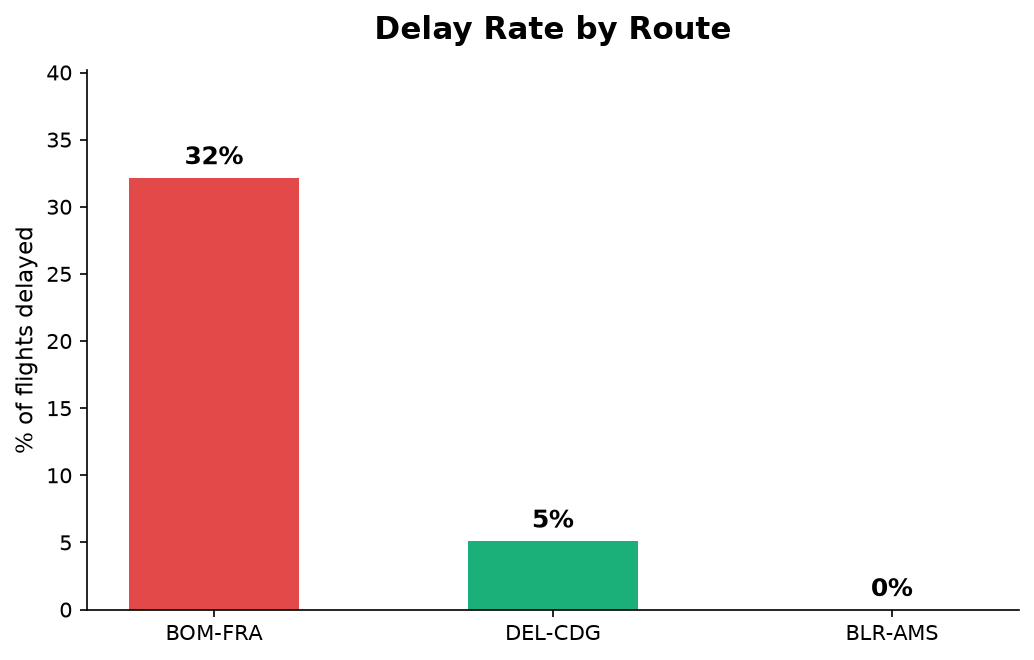
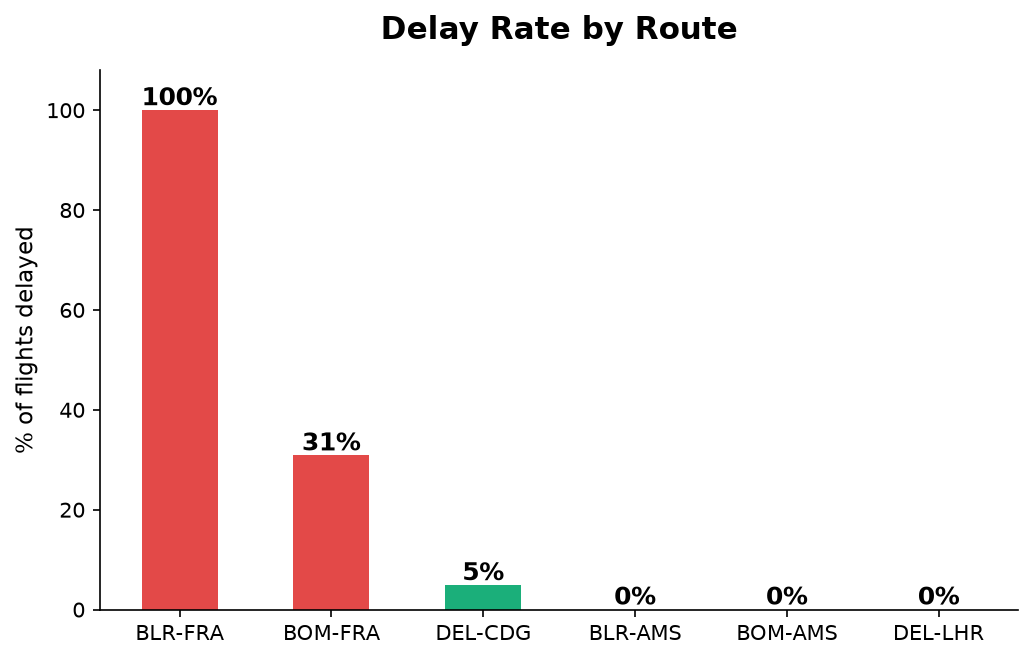
feat: transition to Phase 2 routes (DEL-LHR, BLR-FRA, BOM-AMS); docs: log Phase 2 reasoning

diff --git a/collect_data.py b/collect_data.py
@@ -9,10 +9,24 @@ load_dotenv()
 API_KEY = os.getenv('AVIATIONSTACK_KEY')
 
 # The 3 routes it will be tracking: (departure airport, arrival airport)
-ROUTES = [
+# Phase 1 (Day 1-25): tracked these 3 routes to build a first, comparably-deep
+# dataset (400+ flights each). Historical data remains in flights_log.csv untouched.
+# See KNOWLEDGE.md Section 38 for the Phase 2 transition reasoning.
+PHASE_1_ROUTES_COMPLETE = [
     ('BOM', 'FRA'),
     ('DEL', 'CDG'),
     ('BLR', 'AMS')
+]
+
+# Phase 2 (Day 26 onward): new API quota cycle, switched to these 3 routes
+# rather than running all 6 at once, to avoid halving per-route sample depth.
+# Selected from a researched top-10 list of busiest/most-searched India-Europe
+# routes, picked specifically to add a new destination country (UK, Netherlands)
+# and enable same-destination cross-city comparisons (Frankfurt via BLR vs BOM).
+ROUTES = [
+    ('DEL', 'LHR'),
+    ('BLR', 'FRA'),
+    ('BOM', 'AMS')
 ]
 
 CSV_FILE = 'data/flights_log.csv'

diff --git a/KNOWLEDGE.md b/KNOWLEDGE.md
@@ -189,6 +189,7 @@
 | Day 22 | 391 | 667 | Continued daily collection |
 | Day 23 | 414 | 697 | Continued daily collection. Added a live "predict my flight" feature to the app, backed by a model retrained inside the app itself (cached, retrains only when data changes). Fixed two theme bugs: the toggle label was showing the wrong mode name, and light mode had several invisible text elements because Streamlit's own native widget labels (dropdowns, sliders, buttons) are separate from the app's custom CSS classes and were not being overridden |
 | Day 24 | 425 | 722 | Continued daily collection. Diagnosed and fixed the actual root cause of the toggle label bug, a one-render lag where the label text was computed before capturing the toggle's new value each click. Decoupled the mode indicator text from the widget's own label to fix it properly |
+| Day 25 | 442 | 749 | Continued daily collection. Marked project version 1 complete, remaining sessions are data collection only until the API budget runs out |
 
 ## 24. First EDA finding: BOM-FRA is meaningfully less reliable than the other two routes
 
@@ -303,7 +304,16 @@
 - **Fix:** added explicit CSS overrides targeting Streamlit's own internal widget selectors (label text, slider value display, select box text, button text) so they follow the same theme colors as the rest of the app, in both modes
 - **Interview point:** a real, sometimes-overlooked lesson when styling apps built on top of a framework like Streamlit: the framework's own default component chrome does not automatically inherit a custom theme just because most of the page has been restyled. Every native component needs to be checked and, if needed, explicitly overridden.
 
-## 37. Still to come (will update as we go)
+## 37. Phase 2: switching to 3 new routes on a fresh API quota cycle
+
+- The Aviationstack free tier resets its 100-request budget monthly. With Phase 1 routes (BOM-FRA, DEL-CDG, BLR-AMS) reaching a solid final sample size (442+ flights) on the prior cycle, a fresh 100-request budget became available for a new month
+- **Considered running all 6 routes together, rejected it.** At 6 routes per day, the ~100-request budget only covers 16-17 days, meaning the new 3 routes would end up with roughly 50 flights each versus 400+ on the original 3, a nearly 9x sample size gap. This would directly contradict the depth-over-breadth reasoning already documented in Section 7, and would make any cross-comparison between old and new routes unreliable due to the sample size mismatch alone, not a real difference
+- **Decision: stop collecting Phase 1 routes, start collecting 3 new routes instead**, giving the new routes a comparable ~33-day window and comparable depth, rather than diluting everything by running 6 at once
+- **Historical Phase 1 data is not deleted or hidden.** It remains permanently in flights_log.csv, and the switch is documented directly in code comments in collect_data.py, so anyone reading the script (not just this doc) understands why the active route list changed without needing to dig through git history
+- **New routes chosen from researched top-10 India-Europe route list**, picked specifically to add value beyond just "more data": Delhi-London (DEL-LHR, the single busiest India-Europe corridor overall, adds a new destination country), Mumbai-Amsterdam (BOM-AMS, adds the Netherlands, distinct from the existing Frankfurt/Paris coverage), and Bengaluru-Frankfurt (BLR-FRA, same destination as the existing BOM-FRA route but a different Indian origin city, enabling a same-destination cross-city comparison)
+- **Interview point:** treating "we have more API budget" as a reason to research and deliberately choose new coverage, rather than just re-running the same routes or diluting sample depth by adding routes carelessly, keeps the project's stated principles consistent across its full timeline instead of quietly abandoning them partway through
+
+## 38. Still to come (will update as we go)
 
 - Continue daily collection until API request budget (100/month) is used up
 - Port Random Forest comparison code from scratch notebook into the clean explore.ipynb

diff --git a/README.md b/README.md
@@ -23,6 +23,14 @@ Europe has always been high on my personal travel bucket list, so the three rout
 
 `collect_data.py` calls the [Aviationstack](https://aviationstack.com) API once daily for each route and appends the results to `data/flights_log.csv`. Run it once a day and the dataset grows.
 
+The script only fetches live, current flight data on each run, it cannot backfill historical data. The full historical dataset from every route ever tracked is already included in `data/flights_log.csv` in this repo, cloning the repo gives you all of it immediately.
+
+Data was collected in two phases, both fully preserved in the same file:
+- Phase 1 (Day 1-25): Mumbai-Frankfurt, Delhi-Paris, Bengaluru-Amsterdam
+- Phase 2 (Day 26 onward): Delhi-London, Bengaluru-Frankfurt, Mumbai-Amsterdam, switched to a fresh set of routes on a new API quota cycle rather than diluting sample depth by running 6 routes at once. Reasoning documented in KNOWLEDGE.md.
+
+The active `ROUTES` list in `collect_data.py` only reflects whichever phase is currently running, since that's what determines what new rows get added going forward.
+
 ```bash
 python collect_data.py
 ```
